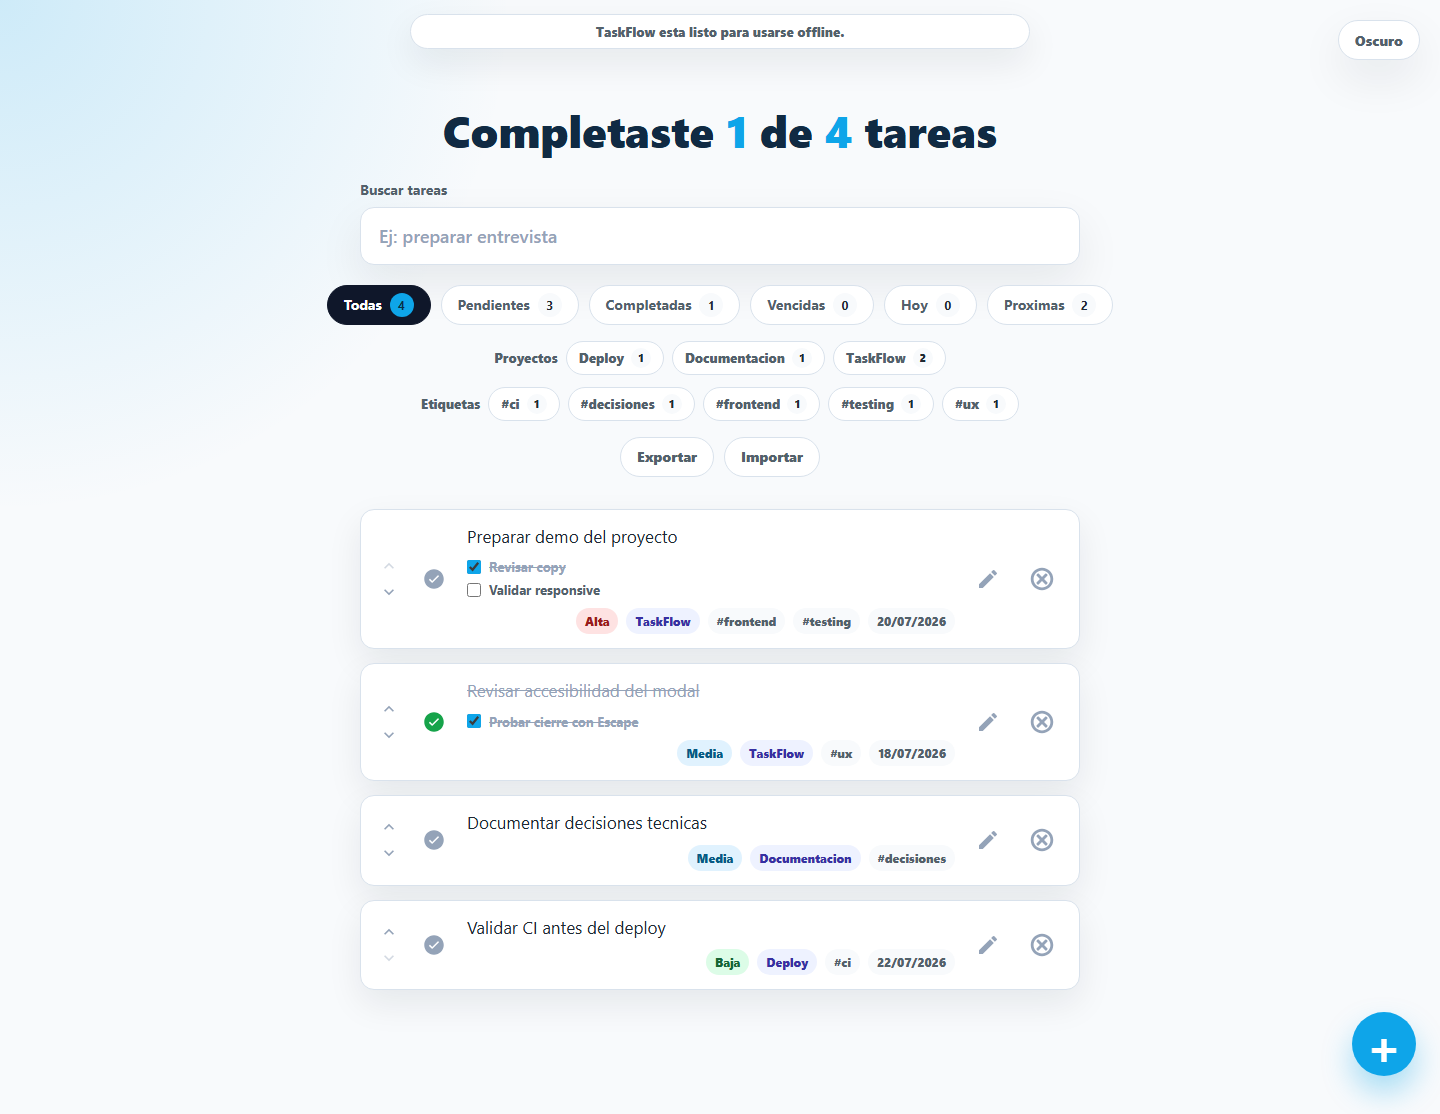
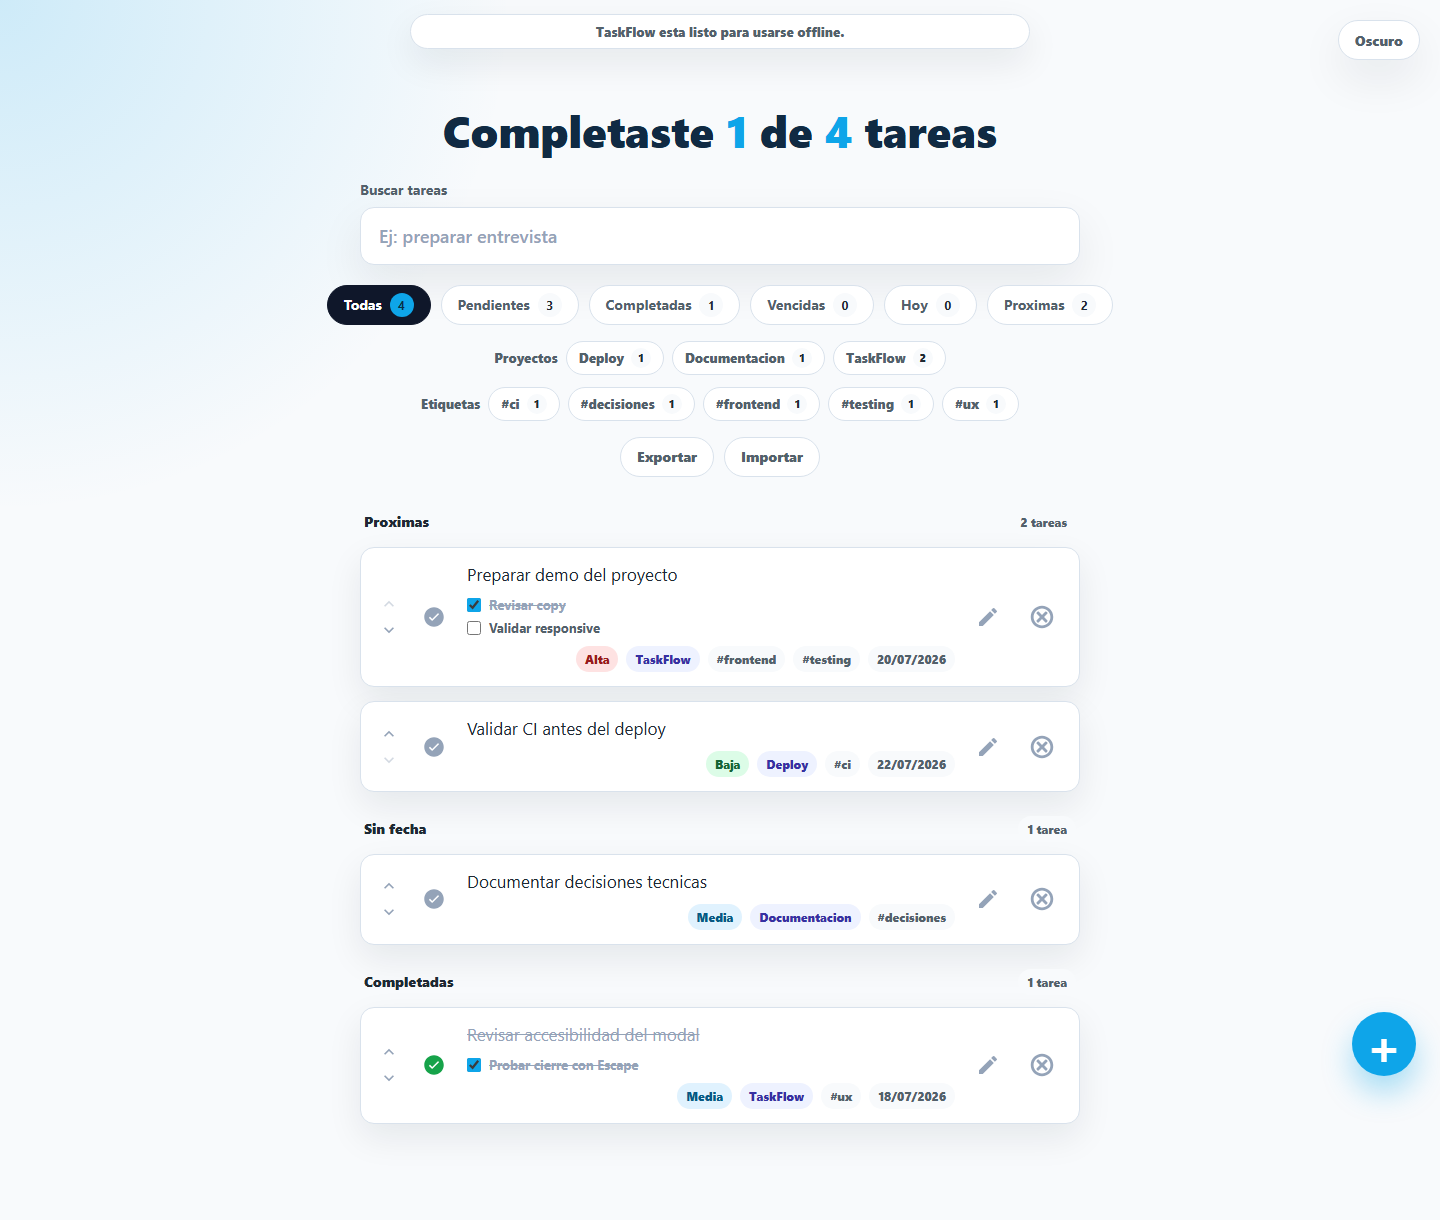
Group todos by status

diff --git a/src/App/todoModel.js b/src/App/todoModel.js
@@ -13,6 +13,30 @@ const TODO_PRIORITIES = {
     high: 'high',
 };
 
+const TODO_GROUPS = {
+    overdue: 'overdue',
+    today: 'today',
+    upcoming: 'upcoming',
+    unscheduled: 'unscheduled',
+    completed: 'completed',
+};
+
+const TODO_GROUP_LABELS = {
+    [TODO_GROUPS.overdue]: 'Vencidas',
+    [TODO_GROUPS.today]: 'Hoy',
+    [TODO_GROUPS.upcoming]: 'Proximas',
+    [TODO_GROUPS.unscheduled]: 'Sin fecha',
+    [TODO_GROUPS.completed]: 'Completadas',
+};
+
+const TODO_GROUP_ORDER = [
+    TODO_GROUPS.overdue,
+    TODO_GROUPS.today,
+    TODO_GROUPS.upcoming,
+    TODO_GROUPS.unscheduled,
+    TODO_GROUPS.completed,
+];
+
 const TODO_BACKUP_VERSION = 1;
 
 function normalizePriority(priority) {
@@ -275,6 +299,33 @@ function getTodosDateCounts(todos, todayDate = getTodayDateValue()) {
     });
 }
 
+function getTodoGroupId(todo, todayDate) {
+    if (todo.completed) {
+        return TODO_GROUPS.completed;
+    }
+
+    return getTodoDateStatus(todo, todayDate) || TODO_GROUPS.unscheduled;
+}
+
+function getTodoGroups(todos, todayDate = getTodayDateValue()) {
+    const groupsById = new Map(TODO_GROUP_ORDER.map(groupId => [
+        groupId,
+        {
+            id: groupId,
+            title: TODO_GROUP_LABELS[groupId],
+            todos: [],
+        },
+    ]));
+
+    todos.forEach(todo => {
+        groupsById.get(getTodoGroupId(todo, todayDate)).todos.push(todo);
+    });
+
+    return TODO_GROUP_ORDER
+        .map(groupId => groupsById.get(groupId))
+        .filter(group => group.todos.length > 0);
+}
+
 function createTodosBackup(todos) {
     return {
         version: TODO_BACKUP_VERSION,
@@ -301,12 +352,14 @@ function readTodosBackup(backup) {
 
 export {
     TODO_FILTERS,
+    TODO_GROUPS,
     TODO_PRIORITIES,
     createTodosBackup,
     createTodo,
     getTodayDateValue,
     getTodoFacets,
     getTodoDateStatus,
+    getTodoGroups,
     getTodosDateCounts,
     getVisibleTodos,
     mergeSubtasks,

diff --git a/src/components/TodoList/TodoList.css b/src/components/TodoList/TodoList.css
@@ -10,6 +10,39 @@
   list-style: none;
 }
 
+.TodoList-groupHeader {
+  align-items: center;
+  color: var(--color-text-muted);
+  display: flex;
+  gap: 12px;
+  justify-content: space-between;
+  margin: 24px 0 -2px;
+  padding: 0 4px;
+}
+
+.TodoList-groupHeader:first-child {
+  margin-top: 0;
+}
+
+.TodoList-groupHeader h2 {
+  color: var(--color-text-strong);
+  font-size: 14px;
+  font-weight: 900;
+  letter-spacing: 0;
+  margin: 0;
+}
+
+.TodoList-groupHeader span {
+  background: var(--color-surface-muted);
+  border-radius: 999px;
+  color: var(--color-text-muted);
+  flex: 0 0 auto;
+  font-size: 12px;
+  font-weight: 800;
+  line-height: 1;
+  padding: 7px 9px;
+}
+
 .TodoList-emptySearch {
   background: var(--color-surface);
   border: 1px dashed var(--color-border-strong);
@@ -20,4 +53,12 @@
   margin: 0 0 18px;
   padding: 22px;
   text-align: center;
+}
+
+@media (max-width: 520px) {
+  .TodoList-groupHeader {
+    align-items: flex-start;
+    flex-direction: column;
+    gap: 8px;
+  }
 }

diff --git a/src/App/useTodos.test.js b/src/App/useTodos.test.js
@@ -1,10 +1,12 @@
 import {
   TODO_FILTERS,
+  TODO_GROUPS,
   TODO_PRIORITIES,
   createTodosBackup,
   createTodo,
   getTodoFacets,
   getTodoDateStatus,
+  getTodoGroups,
   getTodosDateCounts,
   getVisibleTodos,
   normalizeDueDate,
@@ -205,6 +207,44 @@ describe('todo helpers', () => {
     ]);
     expect(getVisibleTodos(todos, '', TODO_FILTERS.upcoming, '2026-07-06')).toEqual([
       todos[2],
+    ]);
+  });
+
+  test('groups visible todos by due date and completion', () => {
+    const todos = [
+      { id: '1', text: 'Sin fecha', completed: false, dueDate: null },
+      { id: '2', text: 'Completada', completed: true, dueDate: '2026-07-05' },
+      { id: '3', text: 'Vencida', completed: false, dueDate: '2026-07-05' },
+      { id: '4', text: 'Hoy', completed: false, dueDate: '2026-07-06' },
+      { id: '5', text: 'Proxima', completed: false, dueDate: '2026-07-07' },
+    ];
+
+    expect(getTodoGroups(todos, '2026-07-06')).toEqual([
+      {
+        id: TODO_GROUPS.overdue,
+        title: 'Vencidas',
+        todos: [todos[2]],
+      },
+      {
+        id: TODO_GROUPS.today,
+        title: 'Hoy',
+        todos: [todos[3]],
+      },
+      {
+        id: TODO_GROUPS.upcoming,
+        title: 'Proximas',
+        todos: [todos[4]],
+      },
+      {
+        id: TODO_GROUPS.unscheduled,
+        title: 'Sin fecha',
+        todos: [todos[0]],
+      },
+      {
+        id: TODO_GROUPS.completed,
+        title: 'Completadas',
+        todos: [todos[1]],
+      },
     ]);
   });
 

diff --git a/src/App/App.test.jsx b/src/App/App.test.jsx
@@ -149,6 +149,36 @@ describe('App', () => {
     expect(screen.queryByText('Enviar avance de hoy')).not.toBeInTheDocument();
   });
 
+  test('groups visible todos by due date and completion', async () => {
+    const yesterday = getRelativeDateInputValue(-1);
+    const today = getRelativeDateInputValue(0);
+    const tomorrow = getRelativeDateInputValue(1);
+
+    localStorage.setItem('TODOS_V1', JSON.stringify([
+      { id: 'todo-1', text: 'Sin fecha asignada', completed: false, dueDate: null, order: 0 },
+      { id: 'todo-2', text: 'Ya completada', completed: true, dueDate: yesterday, order: 1 },
+      { id: 'todo-3', text: 'Vencida pendiente', completed: false, dueDate: yesterday, order: 2 },
+      { id: 'todo-4', text: 'Para hoy', completed: false, dueDate: today, order: 3 },
+      { id: 'todo-5', text: 'Para manana', completed: false, dueDate: tomorrow, order: 4 },
+    ]));
+    renderApp();
+
+    expect(await screen.findByRole('heading', { name: 'Vencidas' })).toBeInTheDocument();
+    expect(screen.getByRole('heading', { name: 'Hoy' })).toBeInTheDocument();
+    expect(screen.getByRole('heading', { name: 'Proximas' })).toBeInTheDocument();
+    expect(screen.getByRole('heading', { name: 'Sin fecha' })).toBeInTheDocument();
+    expect(screen.getByRole('heading', { name: 'Completadas' })).toBeInTheDocument();
+
+    const items = within(screen.getByRole('list', { name: 'Lista de tareas' })).getAllByRole('listitem');
+    expect(items.map(item => item.textContent)).toEqual([
+      expect.stringContaining('Vencida pendiente'),
+      expect.stringContaining('Para hoy'),
+      expect.stringContaining('Para manana'),
+      expect.stringContaining('Sin fecha asignada'),
+      expect.stringContaining('Ya completada'),
+    ]);
+  });
+
   test('filters todos by project and tag facets', async () => {
     const user = userEvent.setup();
     localStorage.setItem('TODOS_V1', JSON.stringify([

diff --git a/src/components/TodoList/TodoList.jsx b/src/components/TodoList/TodoList.jsx
@@ -1,6 +1,17 @@
+import { Fragment } from 'react';
 import './TodoList.css';
 
+function getTodoCountLabel(count) {
+  return count === 1 ? '1 tarea' : `${count} tareas`;
+}
+
 function TodoList(props) {
+  const renderTodo = props.render || props.children;
+  const todoGroups = props.visibleTodoGroups?.length
+    ? props.visibleTodoGroups
+    : [{ id: 'all', title: null, todos: props.visibleTodos }];
+  const showGroupHeaders = todoGroups.length > 1;
+
   return (
     <section className="TodoList-container">
       {props.error && props.onError()}
@@ -11,7 +22,17 @@ function TodoList(props) {
       {(!!props.totalTodos && !props.visibleTodos.length) && props.onEmptySearchResults()}
 
       <ul className="TodoList" aria-label="Lista de tareas">
-        {(!props.loading && !props.error) && props.visibleTodos.map(props.render || props.children)}
+        {(!props.loading && !props.error) && todoGroups.map(group => (
+          <Fragment key={group.id}>
+            {showGroupHeaders && (
+              <li className="TodoList-groupHeader" role="presentation">
+                <h2>{group.title}</h2>
+                <span>{getTodoCountLabel(group.todos.length)}</span>
+              </li>
+            )}
+            {group.todos.map(renderTodo)}
+          </Fragment>
+        ))}
       </ul>
 
     </section>

diff --git a/src/App/useTodos.js b/src/App/useTodos.js
@@ -5,6 +5,7 @@ import {
     createTodosBackup,
     createTodo,
     getTodoFacets,
+    getTodoGroups,
     getTodosDateCounts,
     getVisibleTodos,
     mergeSubtasks,
@@ -64,6 +65,7 @@ function useTodos() {
         project: activeProject,
         tag: activeTag,
     });
+    const visibleTodoGroups = getTodoGroups(visibleTodos);
 
     const completeTodo = (id) => {
         const newTodos = normalizedTodos.map(todo =>
@@ -261,6 +263,7 @@ function useTodos() {
         activeProject,
         activeTag,
         visibleTodos,
+        visibleTodoGroups,
         openModal,
         editingTodo,
         deletingTodo,

diff --git a/src/App/App.jsx b/src/App/App.jsx
@@ -59,6 +59,7 @@ function App() {
         activeProject,
         activeTag,
         visibleTodos,
+        visibleTodoGroups,
         openModal,
         editingTodo,
         deletingTodo,
@@ -172,6 +173,7 @@ function App() {
                 error={error}
                 loading={loading}
                 visibleTodos={visibleTodos}
+                visibleTodoGroups={visibleTodoGroups}
                 totalTodos={totalTodos}
                 searchValue={searchValue}
                 onError={() => <TodosError />}